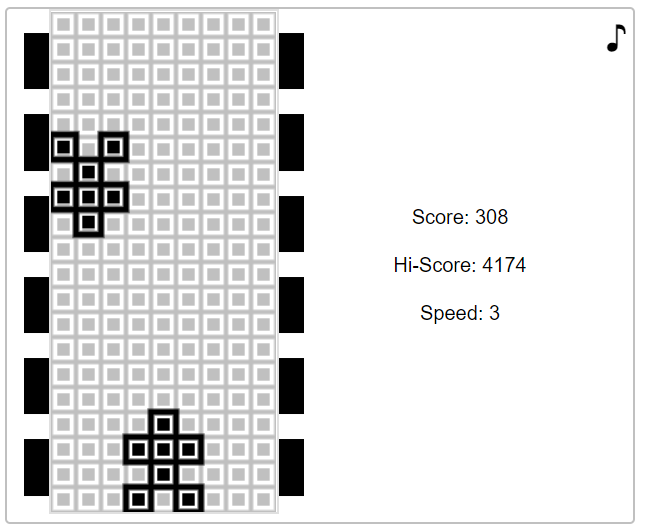
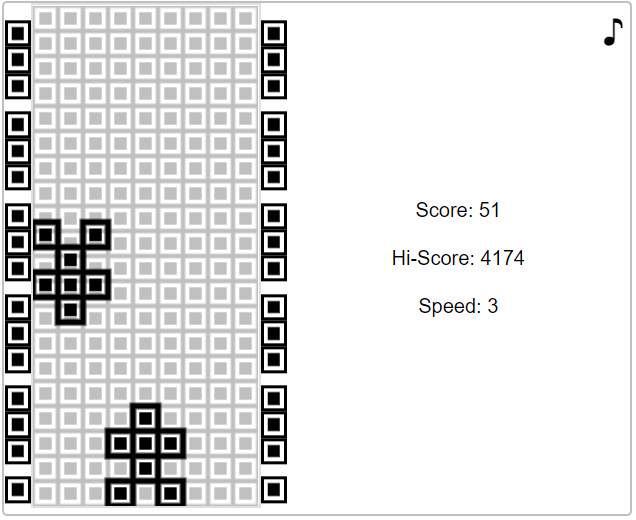
third commit

diff --git a/src/app/app.component.less b/src/app/app.component.less
@@ -1,18 +1,15 @@
 canvas {
   border: 2px solid rgba(0,0,0,0.12);
   transition: 300ms;
-  //border-right: 10px dashed #000;
-  //border-left: 10px dashed #000;
 }
 
 .game {
   display: flex;
   width: 500px;
   justify-content: center;
-  margin: 0px auto;
+  margin: 20vh auto 0 auto;
   border: 2px solid #C0C0C0;
   border-radius: 4px;
-  margin-top: 20vh;
   position: relative;
 
   &_board {
@@ -56,51 +53,42 @@ canvas {
   align-self: flex-end;
   animation-duration: 0.3s;
   animation-iteration-count: infinite;
-  background-color: #000;
-  height: 45px;
+  //background-color: #000;
+  height: 15px;
+  position: relative;
+  border: 3px solid #000000;
   transform-origin: bottom;
-  width: 20px;
-  margin: 20px 0;
-}
+  width: 15px;
 
-.bounce-1 {
-  animation-name: bounce-1;
+}
+.box:nth-child(3n){
+  margin-bottom: 10px;
+}
+.inner_box{
+  width: 10px;
+  height: 10px;
+  background: #000;
+  position: absolute;
+  top: 50%;
+  left: 50%;
+  transform: translate(-50%, -50%);
+}
+.move {
+  animation-name: move;
   animation-timing-function: linear;
 }
 
-.bounce-2 {
-  animation-name: bounce-2;
-  animation-timing-function: linear;
-}
-
-@keyframes bounce-1 {
+@keyframes move {
   0% {
-    transform: translateY(-12px);
+    transform: translateY(0);
   }
   25% {
-    transform: translateY(-5px);
-  }
-  50% {
     transform: translateY(5px);
   }
-  100% {
+  50% {
     transform: translateY(10px);
-  }
-
-}
-
-@keyframes bounce-2 {
-  0% {
-    transform: translateY(-12px);
-  }
-  25% {
-    transform: translateY(-5px);
-  }
-  50% {
-    transform: translateY(5px);
   }
   100% {
     transform: translateY(15px);
   }
-
 }

diff --git a/src/app/app.component.html b/src/app/app.component.html
@@ -1,23 +1,18 @@
 <div class="game">
   <div class="game_player">
     <div class="game_player__road">
-      <div [style.animation-duration]="speedRow+'s'" class="box bounce-1"></div>
-      <div [style.animation-duration]="speedRow+'s'" class="box bounce-2"></div>
-      <div [style.animation-duration]="speedRow+'s'" class="box bounce-1"></div>
-      <div [style.animation-duration]="speedRow+'s'" class="box bounce-2"></div>
-      <div [style.animation-duration]="speedRow+'s'" class="box bounce-1"></div>
-      <div [style.animation-duration]="speedRow+'s'" class="box bounce-2"></div>
+      <div [style.animation-duration]="speedRow+'s'" *ngFor="let n of numSequence(16)" class="box move">
+        <div class="inner_box"></div>
+      </div>
     </div>
     <div>
       <canvas #canvasEl></canvas>
     </div>
     <div class="game_player__road">
-      <div [style.animation-duration]="speedRow+'s'" class="box bounce-1"></div>
-      <div [style.animation-duration]="speedRow+'s'" class="box bounce-2"></div>
-      <div [style.animation-duration]="speedRow+'s'" class="box bounce-1"></div>
-      <div [style.animation-duration]="speedRow+'s'" class="box bounce-2"></div>
-      <div [style.animation-duration]="speedRow+'s'" class="box bounce-1"></div>
-      <div [style.animation-duration]="speedRow+'s'" class="box bounce-2"></div>
+      <div [style.animation-duration]="speedRow+'s'" *ngFor="let n of numSequence(16)" class="box move">
+        <div class="inner_box"></div>
+      </div>
+    </div>
   </div>
   <div class="game_board">
     <span class="music" (click)="playAndStopMusic()">&#9834;</span>

diff --git a/src/app/app.component.ts b/src/app/app.component.ts
@@ -26,7 +26,7 @@ export class AppComponent implements OnInit, AfterViewInit {
   audio = new Audio();
   playMusic: boolean = true;
   hi_score = +localStorage.getItem('hi-score');
-  speedRow: number = 0.6;
+  speedRow: number = 0.3;
 
   ngOnInit(): void {
     this.ctx = this.canvasEl.nativeElement.getContext('2d');
@@ -44,7 +44,9 @@ export class AppComponent implements OnInit, AfterViewInit {
     let speedCar = setInterval(() => {
       this.speed++;
       fCar.speedCar = this.speed;
-      this.speedRow = this.speedRow - 0.1
+      if (this.speedRow > 0.1) {
+        this.speedRow = this.speedRow - 0.1;
+      }
     }, 8000);
 
     let gameCar = setInterval(() => {
@@ -59,7 +61,7 @@ export class AppComponent implements OnInit, AfterViewInit {
           localStorage.setItem('hi-score', String(this.score))
           this.hi_score = +localStorage.getItem('hi-score')
         }
-        this.playMusic = true;
+        this.speedRow = 0;
         clearInterval(gameCar);
         clearInterval(speedCar);
         alert("Game over");
@@ -76,7 +78,9 @@ export class AppComponent implements OnInit, AfterViewInit {
     });
 
   }
-
+  numSequence(n: number): Array<number> {
+    return Array(n);
+  }
   playAndStopMusic() {
     if (this.playMusic) {
       this.audio.src = "../assets/Tetris.mp3";
@@ -87,8 +91,6 @@ export class AppComponent implements OnInit, AfterViewInit {
       this.playMusic = true;
       this.audio.pause();
     }
-
   }
-
 }
 
